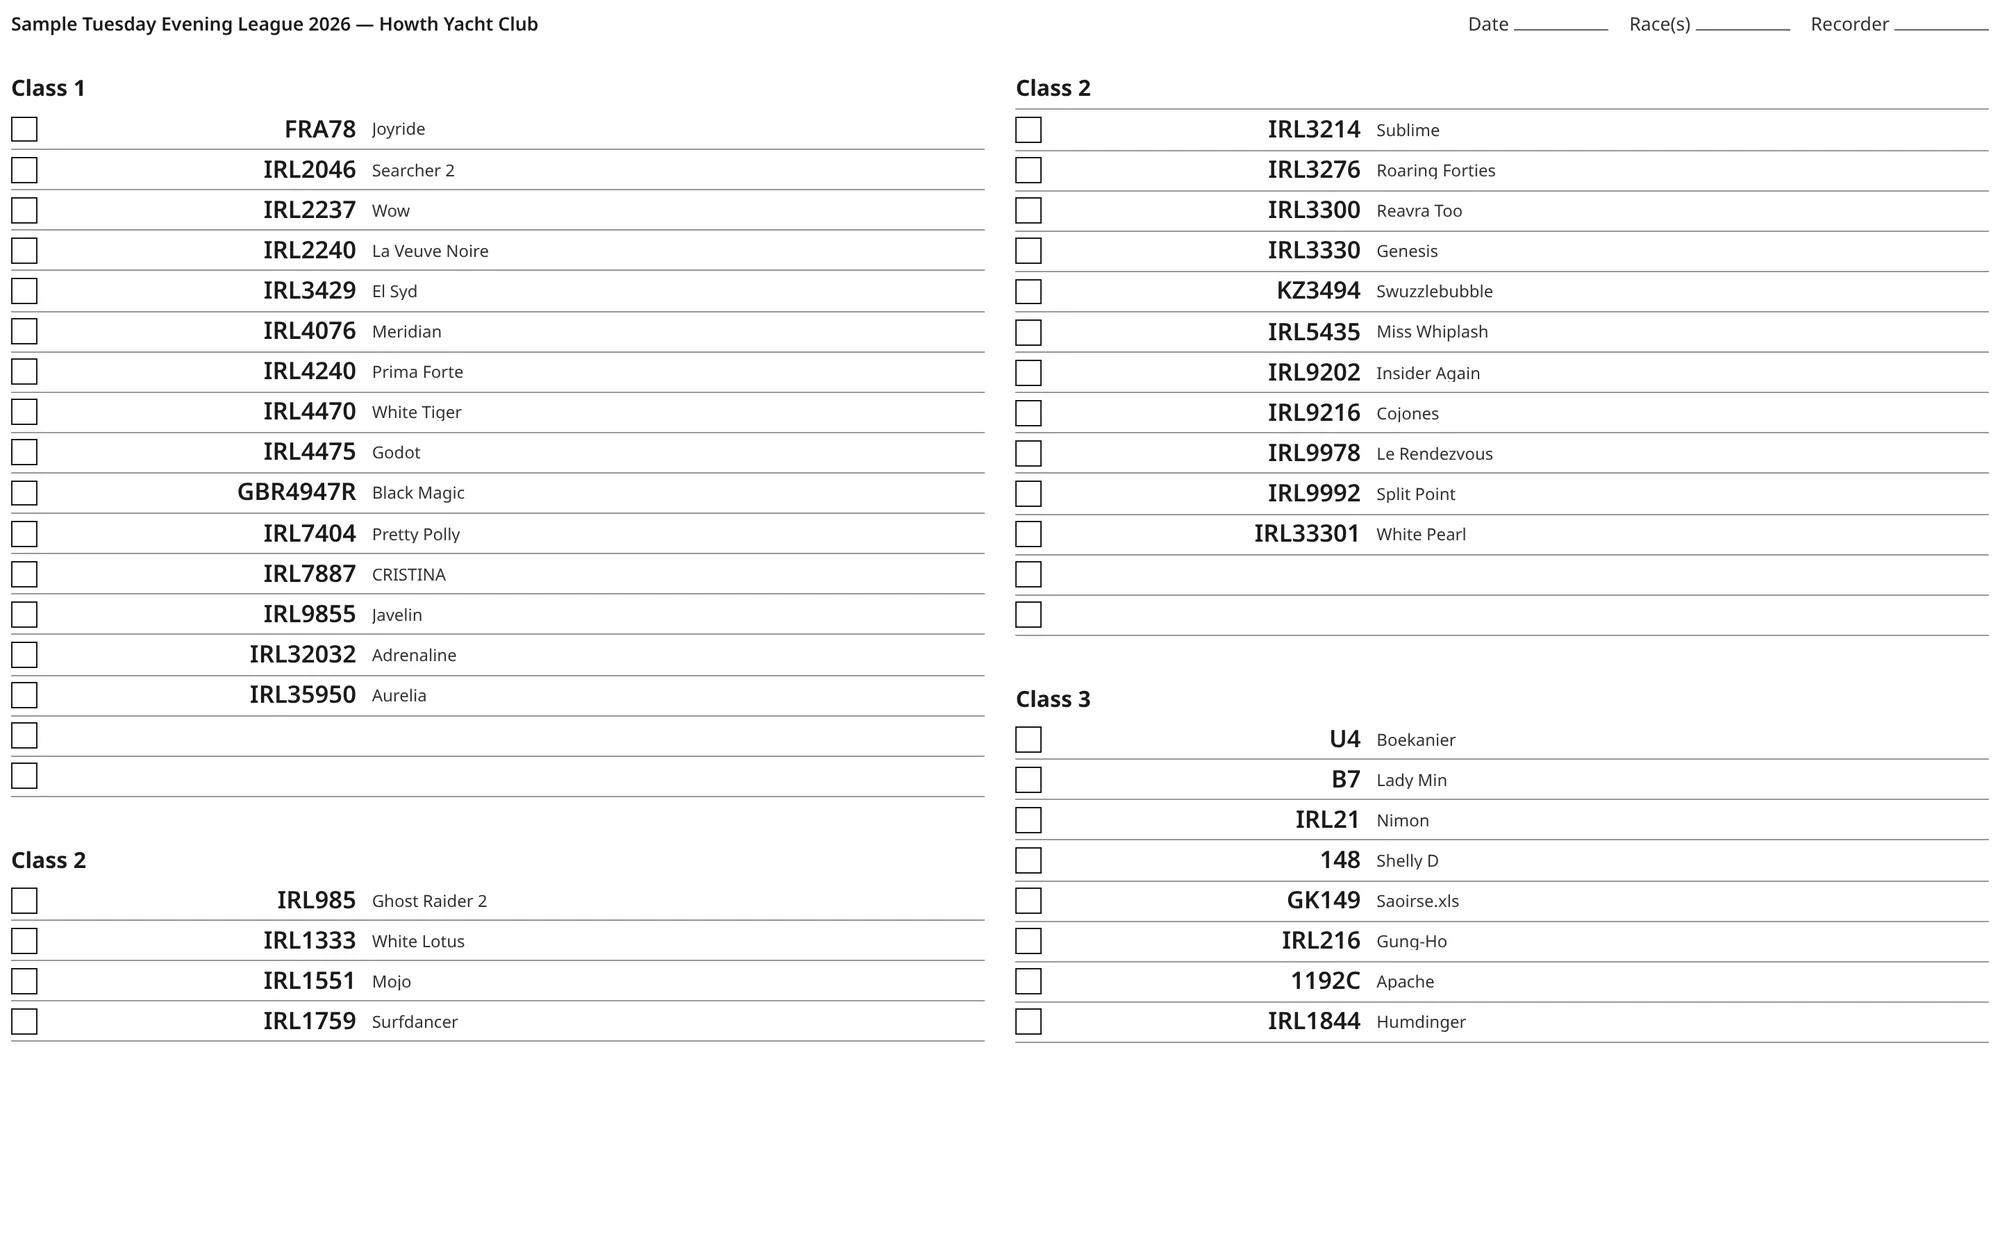
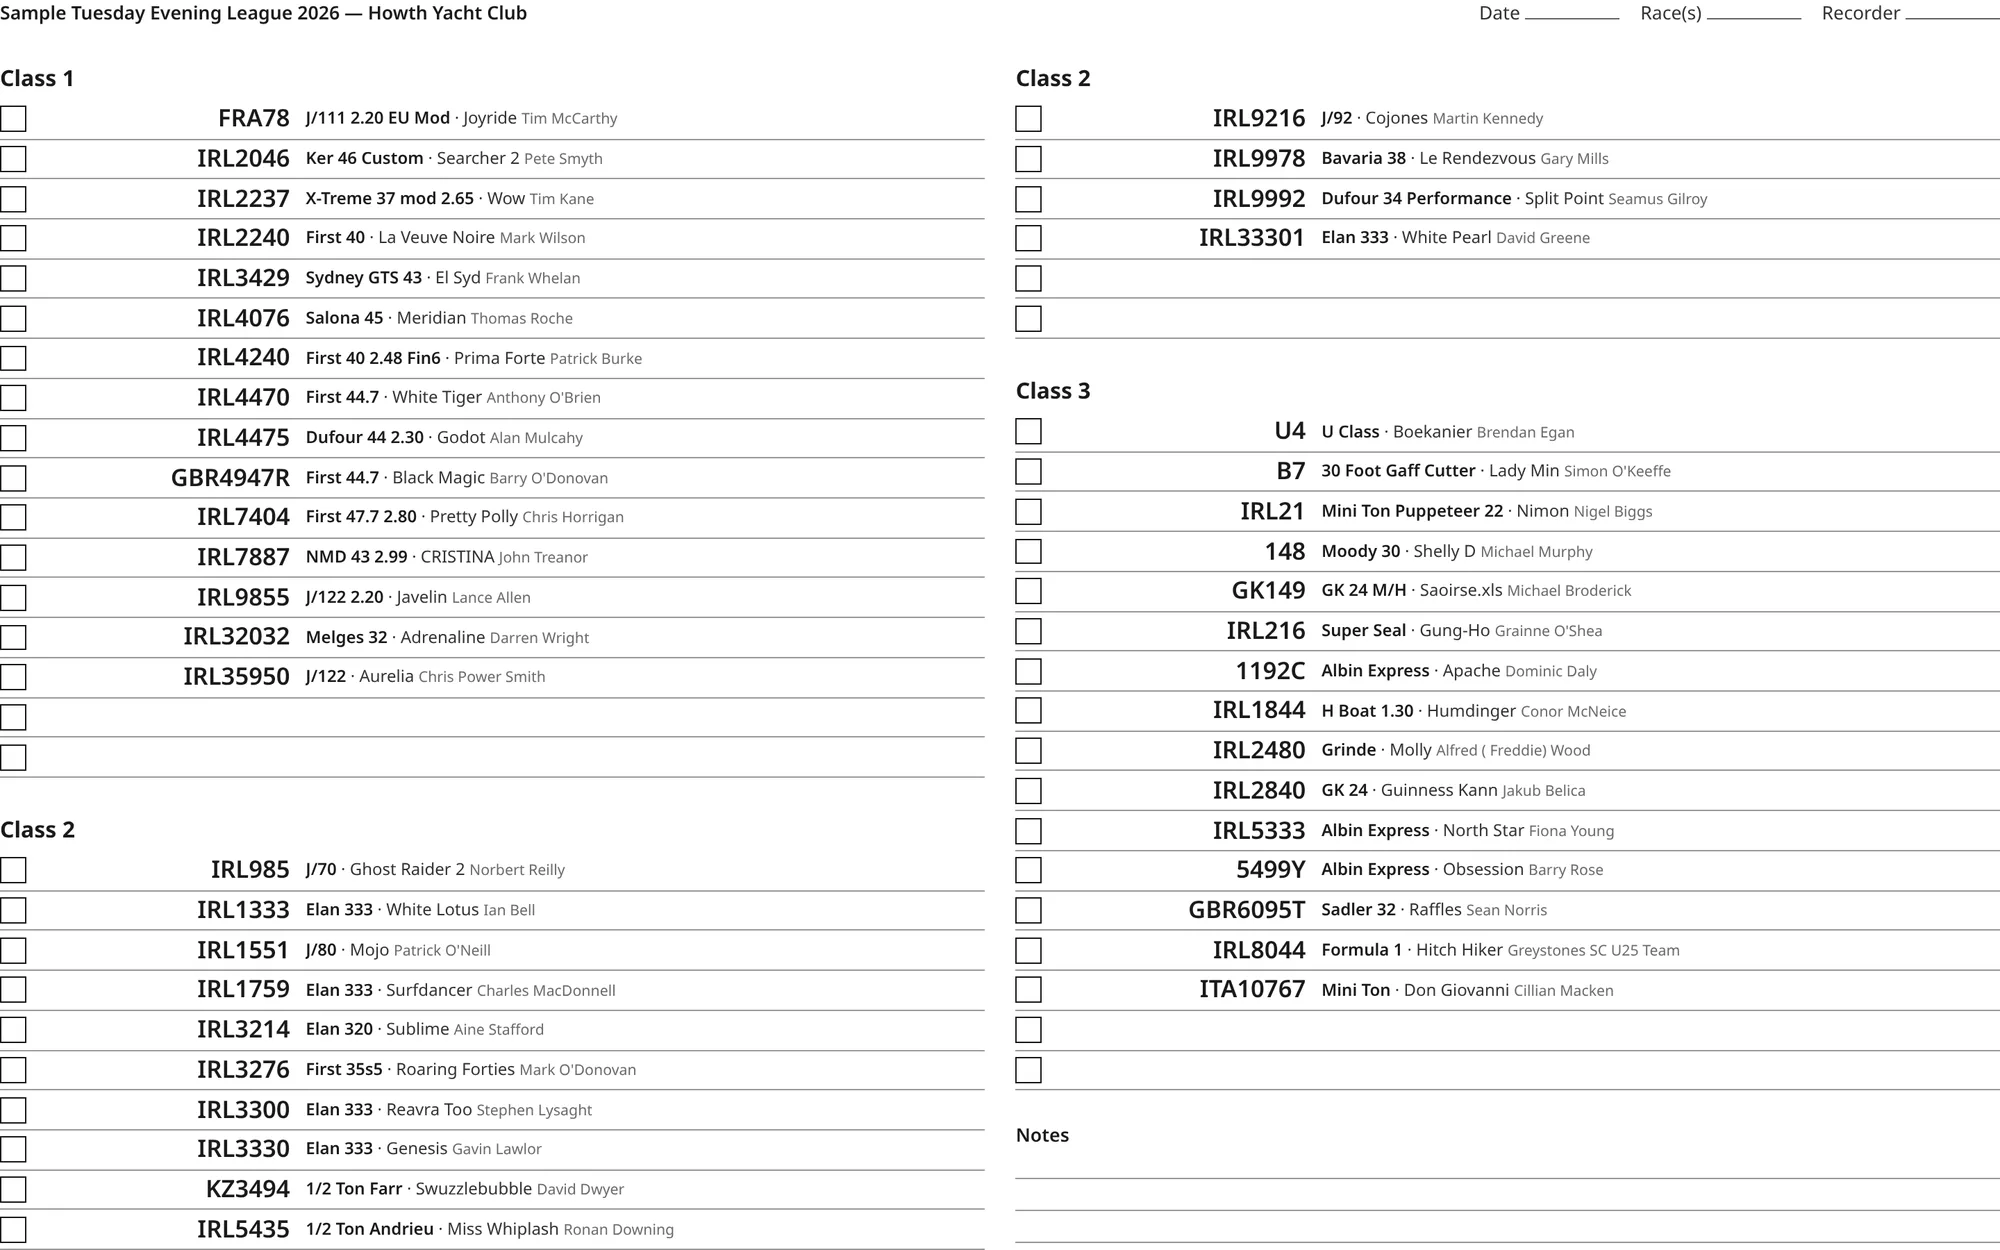
Features: the starters checklist names each boat's helm
Recaptured shot, and the copy says why the name is there.

diff --git a/app/features/page.tsx b/app/features/page.tsx
@@ -681,11 +681,11 @@ const groups: Group[] = [
       {
         id: "starters-checklist",
         title: "The entry list, before race one — and on the committee boat",
-        body: "Publish the entry list as soon as it settles, weeks before there is a result to read. Where a class races under IRC and a club handicap at once, the page tables itself by class and gives each table a rating column per fleet — every boat on one row, its ratings saying which fleets it is in, and a blank where a certificate is still to come. The same page prints as a starters checklist for the race team: one table per start, sail numbers set large enough to read on a moving boat, and a box beside each to tick as it arrives in the starting area. Anyone with the link can print it — no account needed.",
+        body: "Publish the entry list as soon as it settles, weeks before there is a result to read. Where a class races under IRC and a club handicap at once, the page tables itself by class and gives each table a rating column per fleet — every boat on one row, its ratings saying which fleets it is in, and a blank where a certificate is still to come. The same page prints as a starters checklist for the race team: one table per start, sail numbers set large enough to read on a moving boat, the helm named beside each for a race team that knows its sailors, and a box to tick as each boat arrives in the starting area. Anyone with the link can print it — no account needed.",
         note: OPTIONAL_NOTE,
         shot: {
           src: "/screenshots/features/starters-checklist.webp",
-          alt: "A printed starters checklist: three class tables with tick boxes",
+          alt: "A printed starters checklist: three class tables with tick boxes and each boat's helm",
         },
       },
       {
